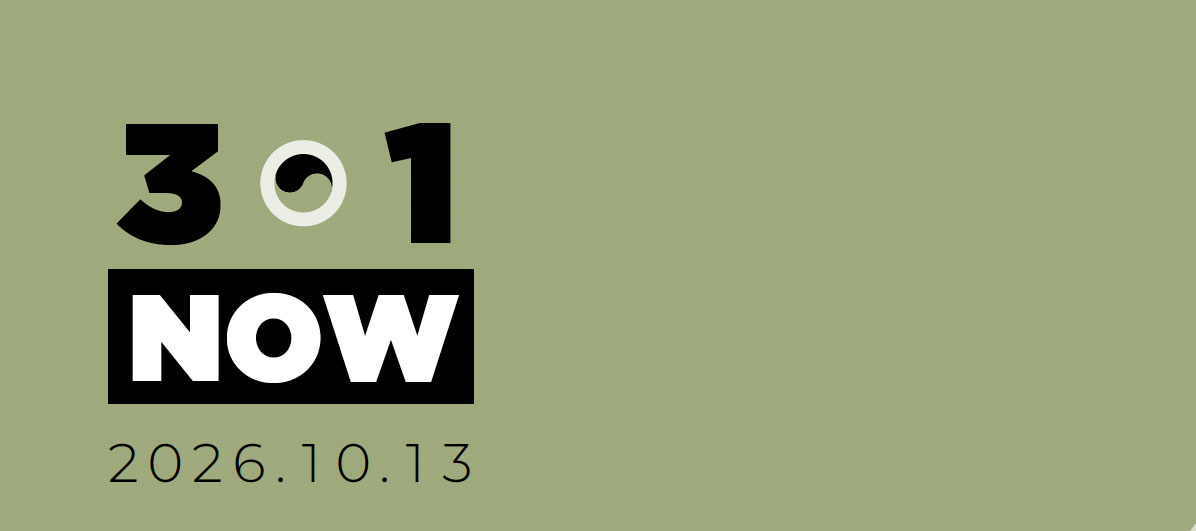
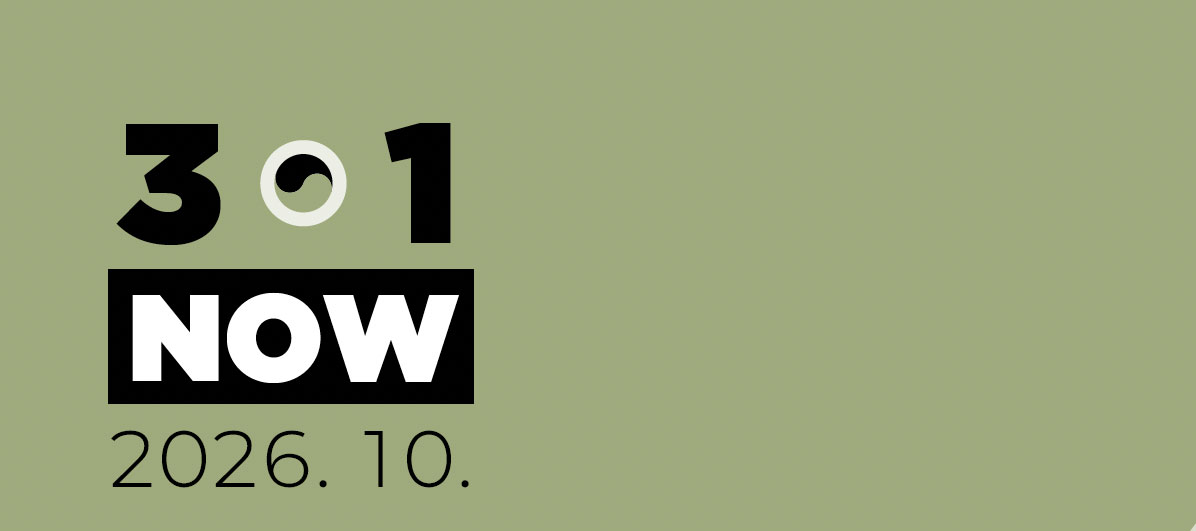
Add interview slider, update news mobile stats and newsletter
- board/interview: photo slider (arrows, swipe, keyboard) with slides 2-6
- board/news: mobile stats layout (aligned columns, centered content)
- newsletter: link news cards to board/news.html, new hero-1 image

Changed region(s): [[0.0928, 0.8136, 0.4022, 0.9341]]

diff --git a/newsletter/newsletter.html b/newsletter/newsletter.html
@@ -4,7 +4,7 @@
   <meta charset="utf-8">
   <meta name="viewport" content="width=device-width, initial-scale=1.0">
   <meta name="x-apple-disable-message-reformatting">
-  <title>3·1 NOW | 2026.10.13</title>
+  <title>3·1 NOW | 2026.10</title>
   <style>
     @import url("https://cdn.jsdelivr.net/gh/orioncactus/pretendard@v1.3.9/dist/web/variable/pretendardvariable-dynamic-subset.min.css");
     @media screen and (max-width:620px) {
@@ -35,7 +35,7 @@
             <td bgcolor="#9fab7e" style="padding:0;background:#9fab7e;line-height:0;font-size:0;">
               <table role="presentation" width="100%" cellpadding="0" cellspacing="0" border="0" style="width:100%;border-collapse:collapse;">
                 <tr>
-                  <td width="65%" valign="top" style="width:65.2%;padding:0;line-height:0;font-size:0;"><img src="assets/hero-1.jpg" width="391" alt="3·1 NOW 2026.10.13" style="display:block;width:100%;height:auto;border:0;"></td>
+                  <td width="65%" valign="top" style="width:65.2%;padding:0;line-height:0;font-size:0;"><img src="assets/hero-1.jpg" width="391" alt="3·1 NOW 2026.10" style="display:block;width:100%;height:auto;border:0;"></td>
                   <td width="35%" valign="top" style="width:34.8%;padding:0;line-height:0;font-size:0;"><a href="#news" style="display:block;text-decoration:none;"><img src="assets/hero-2.jpg" width="209" alt="이전 호 바로가기" style="display:block;width:100%;height:auto;border:0;"></a></td>
                 </tr>
               </table>
@@ -65,13 +65,13 @@
               </table>
               <table role="presentation" width="100%" cellpadding="0" cellspacing="0" border="0" style="width:100%;margin-top:36px;border-collapse:collapse;">
                 <tr class="stack">
-                  <td class="col-l" width="50%" valign="top" style="width:50%;padding:0 31px 32px 0;vertical-align:top;"><div style="min-height:81px;margin:0 0 18px;color:#161616;font-size:18px;font-weight:800;line-height:27px;letter-spacing:-.9px;">2026학년도 3·1장학생<br>선발 및 장학금 지급</div><img src="assets/news-multicultural.png" width="233" alt="장학증서 전달" style="display:block;width:100%;height:auto;border:1px solid #8e8f8c;"><p style="margin:14px 0 0;color:#333333;font-size:12px;line-height:20px;letter-spacing:-.4px;">2026학년도 3·1장학생으로 박사과정 학생 37명이 최종 선발됐으며, 재단은 1년간 총 3억 원 규모의 장학금을 지원합니다.</p></td>
-                  <td class="col-r" width="50%" valign="top" style="width:50%;padding:0 0 32px 30px;border-left:1px solid #161616;vertical-align:top;"><div style="min-height:81px;margin:0 0 18px;color:#161616;font-size:18px;font-weight:800;line-height:27px;letter-spacing:-.9px;">제68회 3·1문화상<br>후보자 추천 접수 마감 및<br>심사위원회 착수</div><img src="assets/news-scholarship.png" width="233" alt="후보자 추천 심사" style="display:block;width:100%;height:auto;border:1px solid #8e8f8c;"><p style="margin:14px 0 0;color:#333333;font-size:12px;line-height:20px;letter-spacing:-.4px;">‘제68회 3·1문화상’ 후보자 추천 접수가 9월 10일 마감됐으며, 현재 분야별 심사위원회가 구성돼 공정한 심사를 통해 수상자를 선정할 계획입니다.</p></td>
+                  <td class="col-l" width="50%" valign="top" style="width:50%;padding:0 31px 32px 0;vertical-align:top;"><a href="../board/news.html" style="display:block;color:inherit;text-decoration:none;"><div style="min-height:81px;margin:0 0 18px;color:#161616;font-size:18px;font-weight:800;line-height:27px;letter-spacing:-.9px;">2026학년도 3·1장학생<br>선발 및 장학금 지급</div><img src="assets/news-multicultural.png" width="233" alt="장학증서 전달" style="display:block;width:100%;height:auto;border:1px solid #8e8f8c;"><p style="margin:14px 0 0;color:#333333;font-size:12px;line-height:20px;letter-spacing:-.4px;">2026학년도 3·1장학생으로 박사과정 학생 37명이 최종 선발됐으며, 재단은 1년간 총 3억 원 규모의 장학금을 지원합니다.</p></a></td>
+                  <td class="col-r" width="50%" valign="top" style="width:50%;padding:0 0 32px 30px;border-left:1px solid #161616;vertical-align:top;"><a href="../board/news.html" style="display:block;color:inherit;text-decoration:none;"><div style="min-height:81px;margin:0 0 18px;color:#161616;font-size:18px;font-weight:800;line-height:27px;letter-spacing:-.9px;">제68회 3·1문화상<br>후보자 추천 접수 마감 및<br>심사위원회 착수</div><img src="assets/news-scholarship.png" width="233" alt="후보자 추천 심사" style="display:block;width:100%;height:auto;border:1px solid #8e8f8c;"><p style="margin:14px 0 0;color:#333333;font-size:12px;line-height:20px;letter-spacing:-.4px;">‘제68회 3·1문화상’ 후보자 추천 접수가 9월 10일 마감됐으며, 현재 분야별 심사위원회가 구성돼 공정한 심사를 통해 수상자를 선정할 계획입니다.</p></a></td>
                 </tr>
                 <tr><td colspan="2" height="1" bgcolor="#161616" style="height:1px;padding:0;background:#161616;font-size:0;line-height:0;">&nbsp;</td></tr>
                 <tr class="stack">
-                  <td class="col-l" width="50%" valign="top" style="width:50%;padding:24px 31px 8px 0;vertical-align:top;"><div style="min-height:81px;margin:0 0 18px;color:#161616;font-size:18px;font-weight:800;line-height:27px;letter-spacing:-.9px;">굿굿시리즈 신간 출간 및<br>출간 예정 소식</div><img src="assets/news-consulting.png" width="233" alt="굿굿시리즈 신간" style="display:block;width:100%;height:auto;border:1px solid #8e8f8c;"><p style="margin:14px 0 0;color:#333333;font-size:12px;line-height:20px;letter-spacing:-.4px;">재단의 교양 단행본 ‘굿굿시리즈’ 24번째 도서 《나의 이기심이 세상을 구한다면》(손봉호 저)이 지난 6월 출간됐습니다. 이어 9월에는 미래 전망을 주제로 한 25번째 도서 《사라지는 일, 살아남는 사람》(이찬 저)을 선보였습니다.</p></td>
-                  <td class="col-r" width="50%" valign="top" style="width:50%;padding:24px 0 8px 30px;border-left:1px solid #161616;vertical-align:top;"><div style="min-height:81px;margin:0 0 18px;color:#161616;font-size:18px;font-weight:800;line-height:27px;letter-spacing:-.9px;">천안아산 다문화엄마학교<br>8차년도 성료 및 9차년도<br>(17기) 개강</div><img src="assets/news-book.png" width="233" alt="다문화엄마학교 참가자" style="display:block;width:100%;height:auto;border:1px solid #8e8f8c;"><p style="margin:14px 0 0;color:#333333;font-size:12px;line-height:20px;letter-spacing:-.4px;">재단이 후원하는 천안아산 다문화엄마학교가 8차년도 교육을 마치며 24명의 수료생을 배출했습니다. 이어 2026학년도 하반기에는 17기 신입생 10명이 입학해 9차년도 교육을 이어가고 있습니다.</p></td>
+                  <td class="col-l" width="50%" valign="top" style="width:50%;padding:24px 31px 8px 0;vertical-align:top;"><a href="../board/news.html" style="display:block;color:inherit;text-decoration:none;"><div style="min-height:81px;margin:0 0 18px;color:#161616;font-size:18px;font-weight:800;line-height:27px;letter-spacing:-.9px;">굿굿시리즈 신간 출간 및<br>출간 예정 소식</div><img src="assets/news-consulting.png" width="233" alt="굿굿시리즈 신간" style="display:block;width:100%;height:auto;border:1px solid #8e8f8c;"><p style="margin:14px 0 0;color:#333333;font-size:12px;line-height:20px;letter-spacing:-.4px;">재단의 교양 단행본 ‘굿굿시리즈’ 24번째 도서 《나의 이기심이 세상을 구한다면》(손봉호 저)이 지난 6월 출간됐습니다. 이어 9월에는 미래 전망을 주제로 한 25번째 도서 《사라지는 일, 살아남는 사람》(이찬 저)을 선보였습니다.</p></a></td>
+                  <td class="col-r" width="50%" valign="top" style="width:50%;padding:24px 0 8px 30px;border-left:1px solid #161616;vertical-align:top;"><a href="../board/news.html" style="display:block;color:inherit;text-decoration:none;"><div style="min-height:81px;margin:0 0 18px;color:#161616;font-size:18px;font-weight:800;line-height:27px;letter-spacing:-.9px;">천안아산 다문화엄마학교<br>8차년도 성료 및 9차년도<br>(17기) 개강</div><img src="assets/news-book.png" width="233" alt="다문화엄마학교 참가자" style="display:block;width:100%;height:auto;border:1px solid #8e8f8c;"><p style="margin:14px 0 0;color:#333333;font-size:12px;line-height:20px;letter-spacing:-.4px;">재단이 후원하는 천안아산 다문화엄마학교가 8차년도 교육을 마치며 24명의 수료생을 배출했습니다. 이어 2026학년도 하반기에는 17기 신입생 10명이 입학해 9차년도 교육을 이어가고 있습니다.</p></a></td>
                 </tr>
               </table>
             </td>

diff --git a/board/interview.html b/board/interview.html
@@ -70,10 +70,13 @@
     .note{margin-top:20px!important;padding-left:.6em;text-indent:-.6em;color:#8a8a8a;font-size:12px!important;line-height:1.7!important}
 
     /* slider */
-    .slide{position:relative}
-    .slide .arrow{position:absolute;top:50%;width:26px;height:26px;margin-top:-13px;pointer-events:none}
-    .slide .arrow.prev{left:58px}.slide .arrow.next{right:58px}
-    .slide svg{display:block;width:100%;height:100%;fill:none;stroke:#fff;stroke-width:2.4;stroke-linecap:square}
+    .slide{position:relative;overflow:hidden;background:#000;aspect-ratio:3/2;user-select:none;-webkit-user-select:none;outline-offset:-3px}
+    .slide-track{display:flex;height:100%;transition:transform .45s ease;touch-action:pan-y}
+    .qa-body figure.slide .slide-track img{flex:0 0 100%;width:100%;height:100%;object-fit:contain;-webkit-user-drag:none}
+    .slide .arrow{position:absolute;top:50%;z-index:2;display:flex;align-items:center;justify-content:center;width:44px;height:44px;margin-top:-22px;padding:0;border:0;background:transparent;cursor:pointer;-webkit-tap-highlight-color:transparent}
+    .slide .arrow.prev{left:44px}.slide .arrow.next{right:44px}
+    .slide .arrow svg{display:block;width:26px;height:26px;fill:none;stroke:#fff;stroke-width:2.4;stroke-linecap:square;filter:drop-shadow(0 0 3px rgba(0,0,0,.55))}
+    .slide .arrow:focus-visible{outline:2px solid #fff;outline-offset:-4px}
 
     /* relay */
     .relay{position:relative;margin-top:100px;padding:32px 37px 62px;background:#767a54 url("assets/interview-bottom-bg.png") no-repeat right -13px top -89px/260px auto;color:#fff;overflow:hidden}
@@ -114,8 +117,9 @@
       .qa-grid .qmark,.qa-grid.right .qmark{left:var(--pad)}
       .qa-grid h2{font-size:22px}
       .qa-grid p{font-size:18px}
-      .slide .arrow{width:16px;height:16px;margin-top:-8px}
-      .slide .arrow.prev{left:22px}.slide .arrow.next{right:22px}
+      .slide .arrow{width:36px;height:36px;margin-top:-18px}
+      .slide .arrow svg{width:18px;height:18px}
+      .slide .arrow.prev{left:10px}.slide .arrow.next{right:10px}
       .relay{padding:20px var(--pad) 36px;margin-top:60px;background-position:right -8px top -54px;background-size:160px auto}
       .relay-card{grid-template-columns:1fr;gap:18px;margin-top:0;padding-top:20px}
       .relay-card>div{padding-bottom:0}
@@ -184,10 +188,17 @@
       <span class="qmark">Q.</span>
       <div class="qa-body">
         <h2>1인 32역 『벽 속의 요정』은 선생님의 대표작입니다. 처음 이 작품을 만났을 때 어땠나요?</h2>
-        <figure class="flush slide">
-          <img src="assets/interview-slide-1.jpg" alt="김성녀 『벽 속의 요정』 공연 사진">
-          <span class="arrow prev" aria-hidden="true"><svg viewBox="0 0 26 26"><path d="M19 2 8 13l11 11"/></svg></span>
-          <span class="arrow next" aria-hidden="true"><svg viewBox="0 0 26 26"><path d="m7 2 11 11L7 24"/></svg></span>
+        <figure class="flush slide" data-slider tabindex="0" aria-roledescription="carousel" aria-label="『벽 속의 요정』 공연 사진">
+          <div class="slide-track">
+            <img src="assets/interview-slide-1.jpg" alt="김성녀 『벽 속의 요정』 공연 사진 1">
+            <img src="assets/interview-slide-2.jpg" alt="김성녀 『벽 속의 요정』 공연 사진 2" loading="lazy" decoding="async">
+            <img src="assets/interview-slide-3.jpg" alt="김성녀 『벽 속의 요정』 공연 사진 3" loading="lazy" decoding="async">
+            <img src="assets/interview-slide-4.jpg" alt="김성녀 『벽 속의 요정』 공연 사진 4" loading="lazy" decoding="async">
+            <img src="assets/interview-slide-5.jpg" alt="김성녀 『벽 속의 요정』 공연 사진 5" loading="lazy" decoding="async">
+            <img src="assets/interview-slide-6.jpg" alt="김성녀 『벽 속의 요정』 공연 사진 6" loading="lazy" decoding="async">
+          </div>
+          <button type="button" class="arrow prev" aria-label="이전 사진"><svg viewBox="0 0 26 26" aria-hidden="true"><path d="M19 2 8 13l11 11"/></svg></button>
+          <button type="button" class="arrow next" aria-label="다음 사진"><svg viewBox="0 0 26 26" aria-hidden="true"><path d="m7 2 11 11L7 24"/></svg></button>
         </figure>
         <p>저는 극단에서 활동하고 마당놀이도 하고 학생들도 가르쳤지만, 정작 ‘김성녀’라는 배우를 온전히 보여줄 작품은 없었어요. 그런데 『벽 속의 요정』은 처음으로 제 이름을 걸고 저 자신을 온전히 보여준 작품입니다. 당시에는 연극에서 기립박수를 하는 경우가 많지 않았는데, 첫날부터 기립박수가 터졌어요. 혼자 2시간 반 동안 공연했는데 관객들이 너무 좋아해주셨고, 그해에 상도 많이 받았습니다. 그래서 ‘이 작품을 10년 하겠다’고 했어요. 해외 공연도 다니면서 10년을 했는데 10년이 되어도 여력이 남아 있더라고요. 그래서 또 10년을 하겠다고 했고, 그렇게 20년이 됐습니다.</p>
         <div class="gallery g67"><img src="assets/interview-06.jpg" alt="공연 장면"><img src="assets/interview-07.jpg" alt="공연 장면"></div>
@@ -235,5 +246,47 @@
       <p>1950년 서울 출생. 1976년 연극 무대에 데뷔했다. 국립창극단 예술감독, 중앙대학교 국악대학 학장·국악교육대학원장을 역임했으며 현재 동국대학교 한국음악과 석좌교수로 재직하고 있다. 연극·뮤지컬·창극·마당놀이 등 다양한 장르에서 활동했으며, 『벽 속의 요정』에서 1인 32역을 맡아 주목받았다. 백상예술대상, 서울연극제 연기상, 한국뮤지컬대상, 이해랑연극상 등을 수상했다.</p>
     </section>
   </main>
+  <script>
+    (function () {
+      document.querySelectorAll('[data-slider]').forEach(function (root) {
+        var track = root.querySelector('.slide-track');
+        var count = track.children.length;
+        var index = 0, startX = null, dx = 0, dragging = false;
+        function go(n) {
+          index = (n + count) % count;
+          track.style.transform = 'translateX(' + (-index * 100) + '%)';
+          Array.prototype.forEach.call(track.children, function (img, i) { img.setAttribute('aria-hidden', i === index ? 'false' : 'true'); });
+        }
+        root.querySelector('.prev').addEventListener('click', function () { go(index - 1); });
+        root.querySelector('.next').addEventListener('click', function () { go(index + 1); });
+        root.addEventListener('keydown', function (e) {
+          if (e.key === 'ArrowLeft') { go(index - 1); e.preventDefault(); }
+          if (e.key === 'ArrowRight') { go(index + 1); e.preventDefault(); }
+        });
+        track.addEventListener('pointerdown', function (e) {
+          startX = e.clientX; dx = 0; dragging = true;
+          track.style.transition = 'none';
+          try { track.setPointerCapture(e.pointerId); } catch (err) {}
+        });
+        track.addEventListener('pointermove', function (e) {
+          if (!dragging) return;
+          dx = e.clientX - startX;
+          track.style.transform = 'translateX(calc(' + (-index * 100) + '% + ' + dx + 'px))';
+        });
+        function end() {
+          if (!dragging) return;
+          dragging = false;
+          track.style.transition = '';
+          var w = root.clientWidth;
+          if (dx < -w * 0.15) go(index + 1);
+          else if (dx > w * 0.15) go(index - 1);
+          else go(index);
+        }
+        track.addEventListener('pointerup', end);
+        track.addEventListener('pointercancel', end);
+        go(0);
+      });
+    })();
+  </script>
 </body>
 </html>

diff --git a/board/news.html b/board/news.html
@@ -81,12 +81,13 @@
       .item-title .num{flex-basis:38px}
       .item p{font-size:18px;margin-top:16px}
       .stats{grid-template-columns:1fr;margin-top:28px;gap:14px}
-      .stat.tall{display:grid;grid-template-columns:108px auto;justify-content:center;column-gap:12px;align-items:center;min-height:130px;padding:0;background:linear-gradient(90deg,var(--blue),var(--beige));text-align:left}
+      .stat.tall,.stat.wide{display:grid;grid-template-columns:96px minmax(0,156px);justify-content:center;column-gap:8px;align-items:center;min-height:130px;padding:0 12px}
+      .stat.tall{background:linear-gradient(90deg,var(--blue),var(--beige));text-align:left}
+      .stat.tall .lead,.stat.wide .lead{align-items:center;gap:8px;width:max-content;max-width:100%;text-align:center}
       .stat.tall .lead img{width:50px}
       .stat.tall .detail p{font-size:13px;text-align:left}
       .stat.tall .detail p b{font-size:19px}
       .stat-col{gap:14px}
-      .stat.wide{grid-template-columns:108px auto;justify-content:center;column-gap:12px;min-height:130px;padding-right:0}
       .stat.wide .detail p{font-size:13px;text-align:left}
       .stat.wide .detail p b{font-size:19px}
       .stat.wide .lead.cap img{width:50px}.stat.wide .lead.bank img{width:38px}
